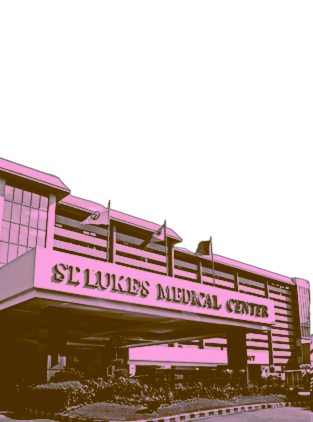
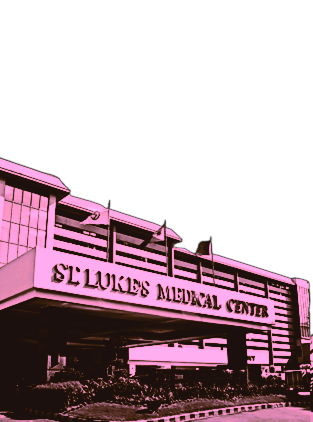
gg

diff --git a/style/indexStyle.css b/style/indexStyle.css
@@ -252,10 +252,10 @@ body{
         transition: .3s;
     }
     .main-bg img{
-        opacity: .001;     
+        opacity: 1;     
     }
     .main-bg{
-        background-color:rgba(232, 136, 252, 0.705);
+        background-color:rgba(232, 136, 252, .1);
     }
     .title{
         left: 50px;
